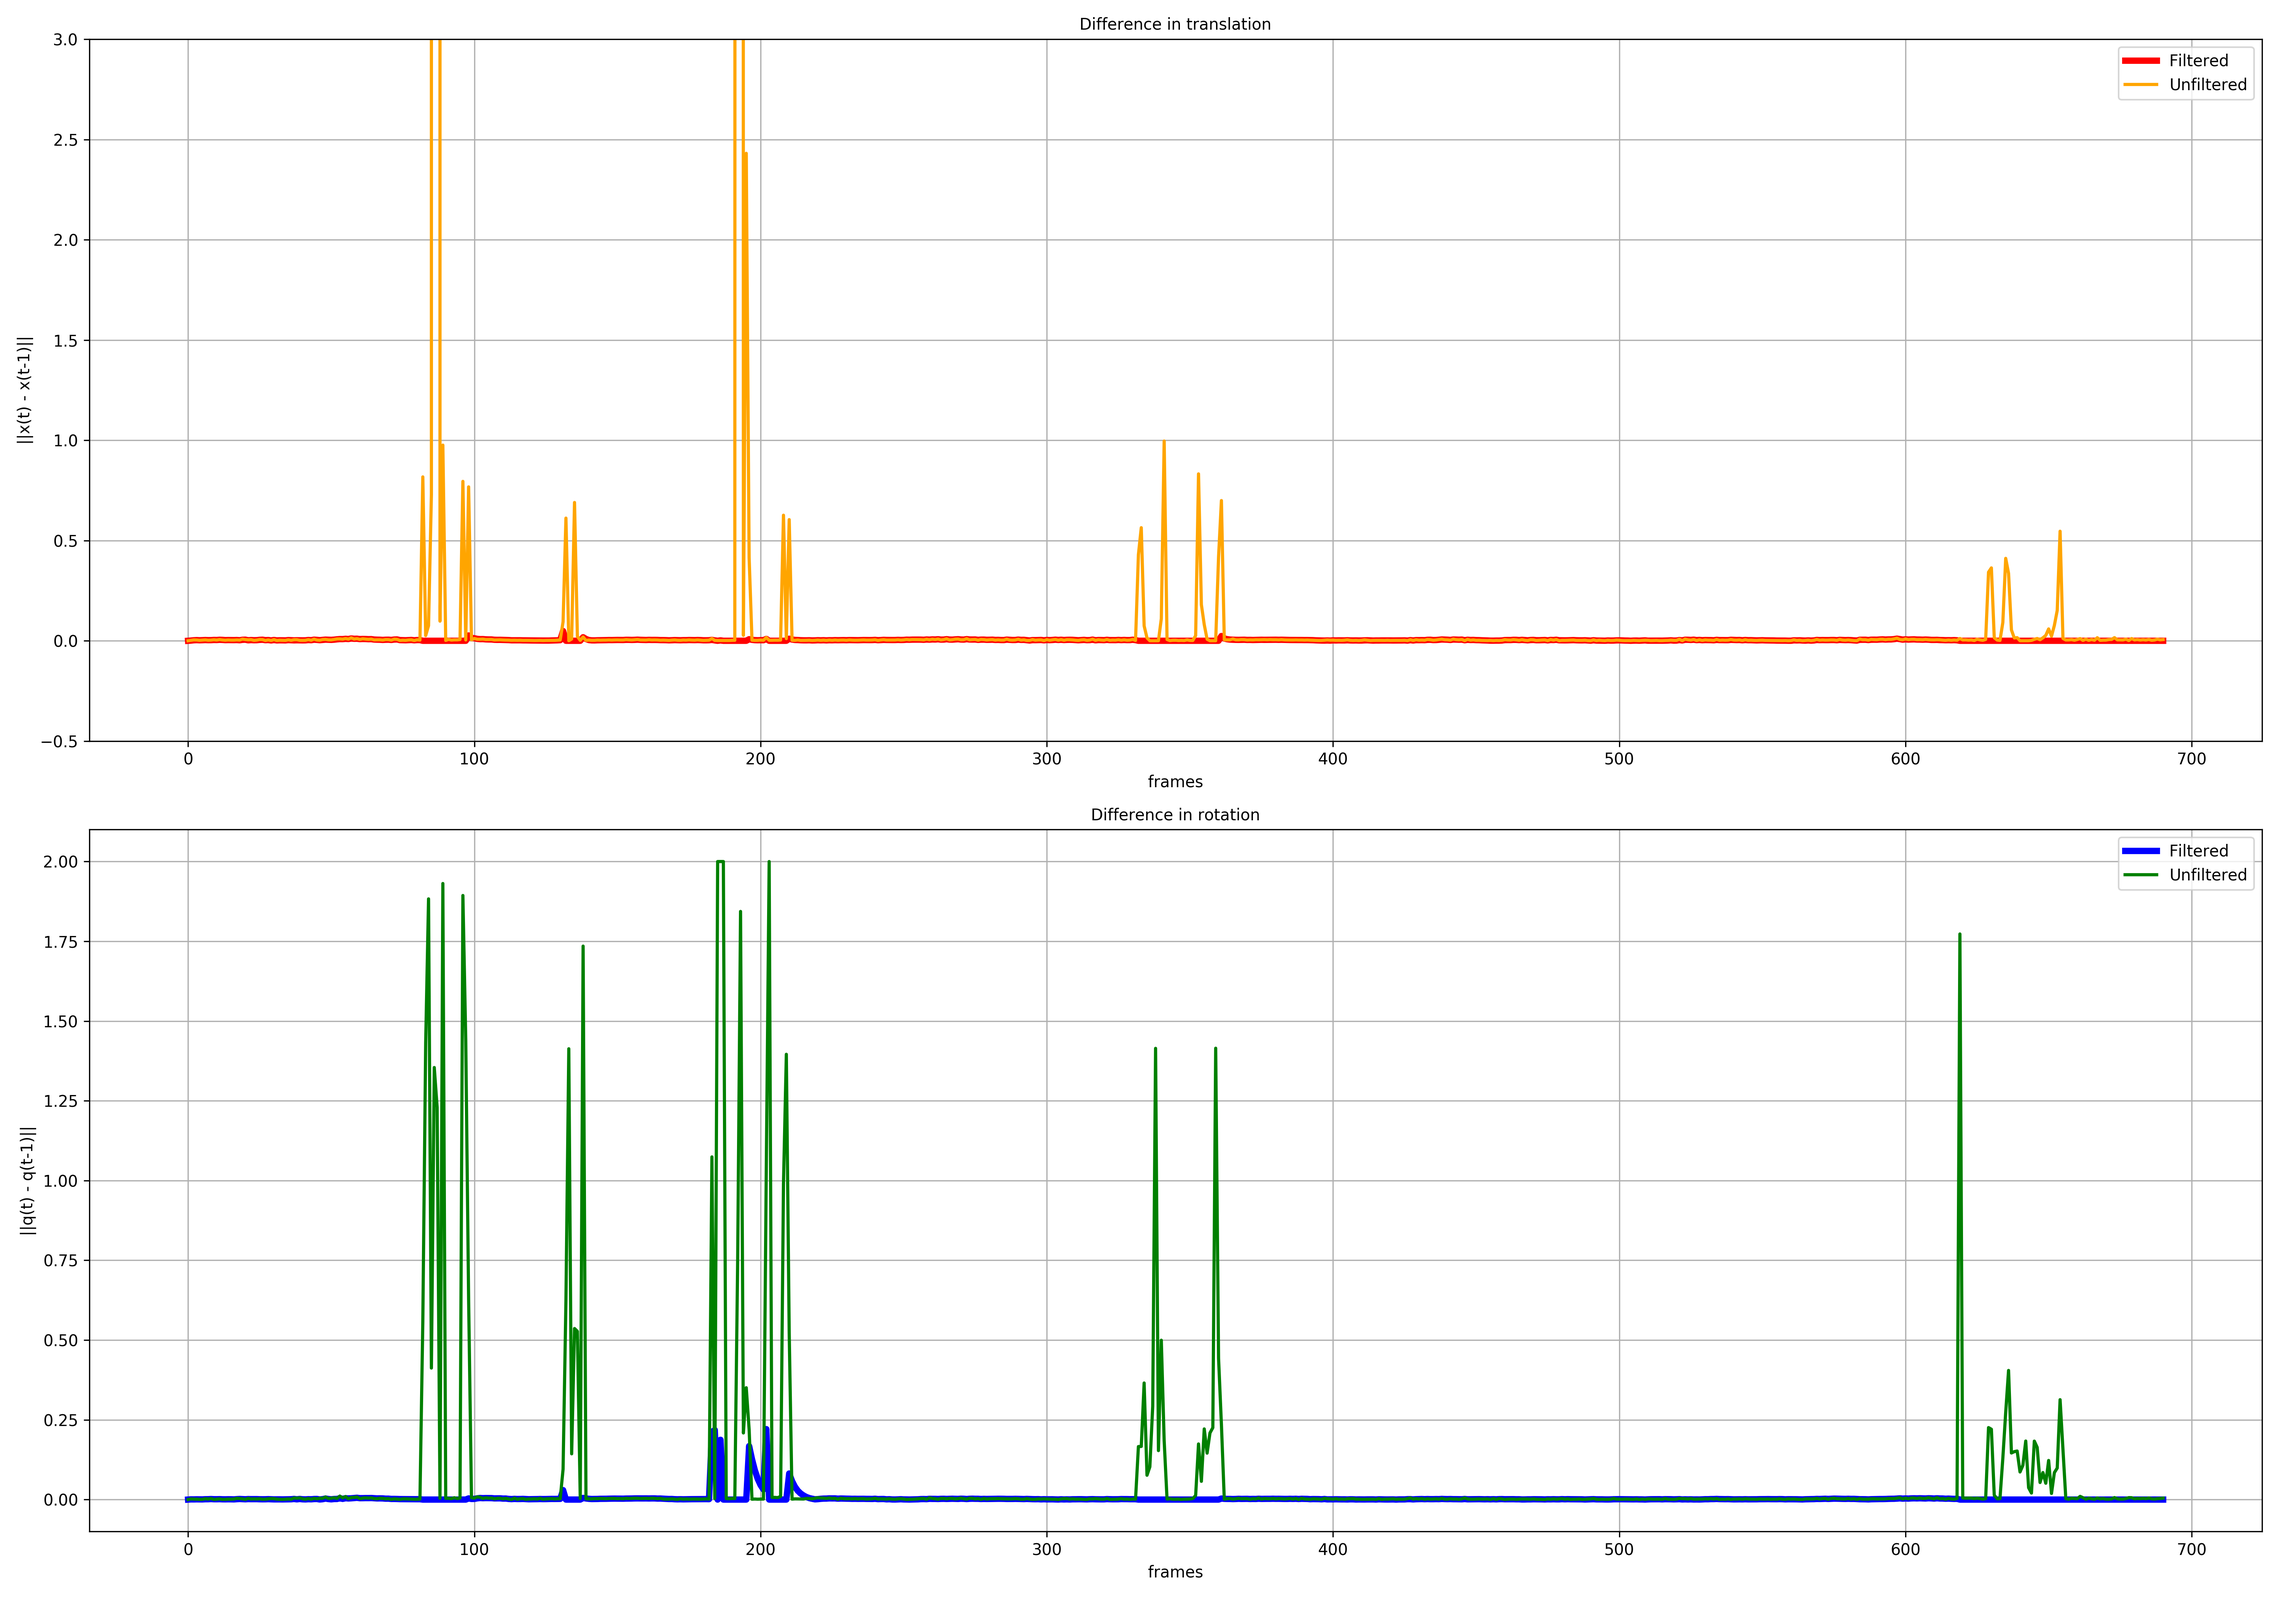
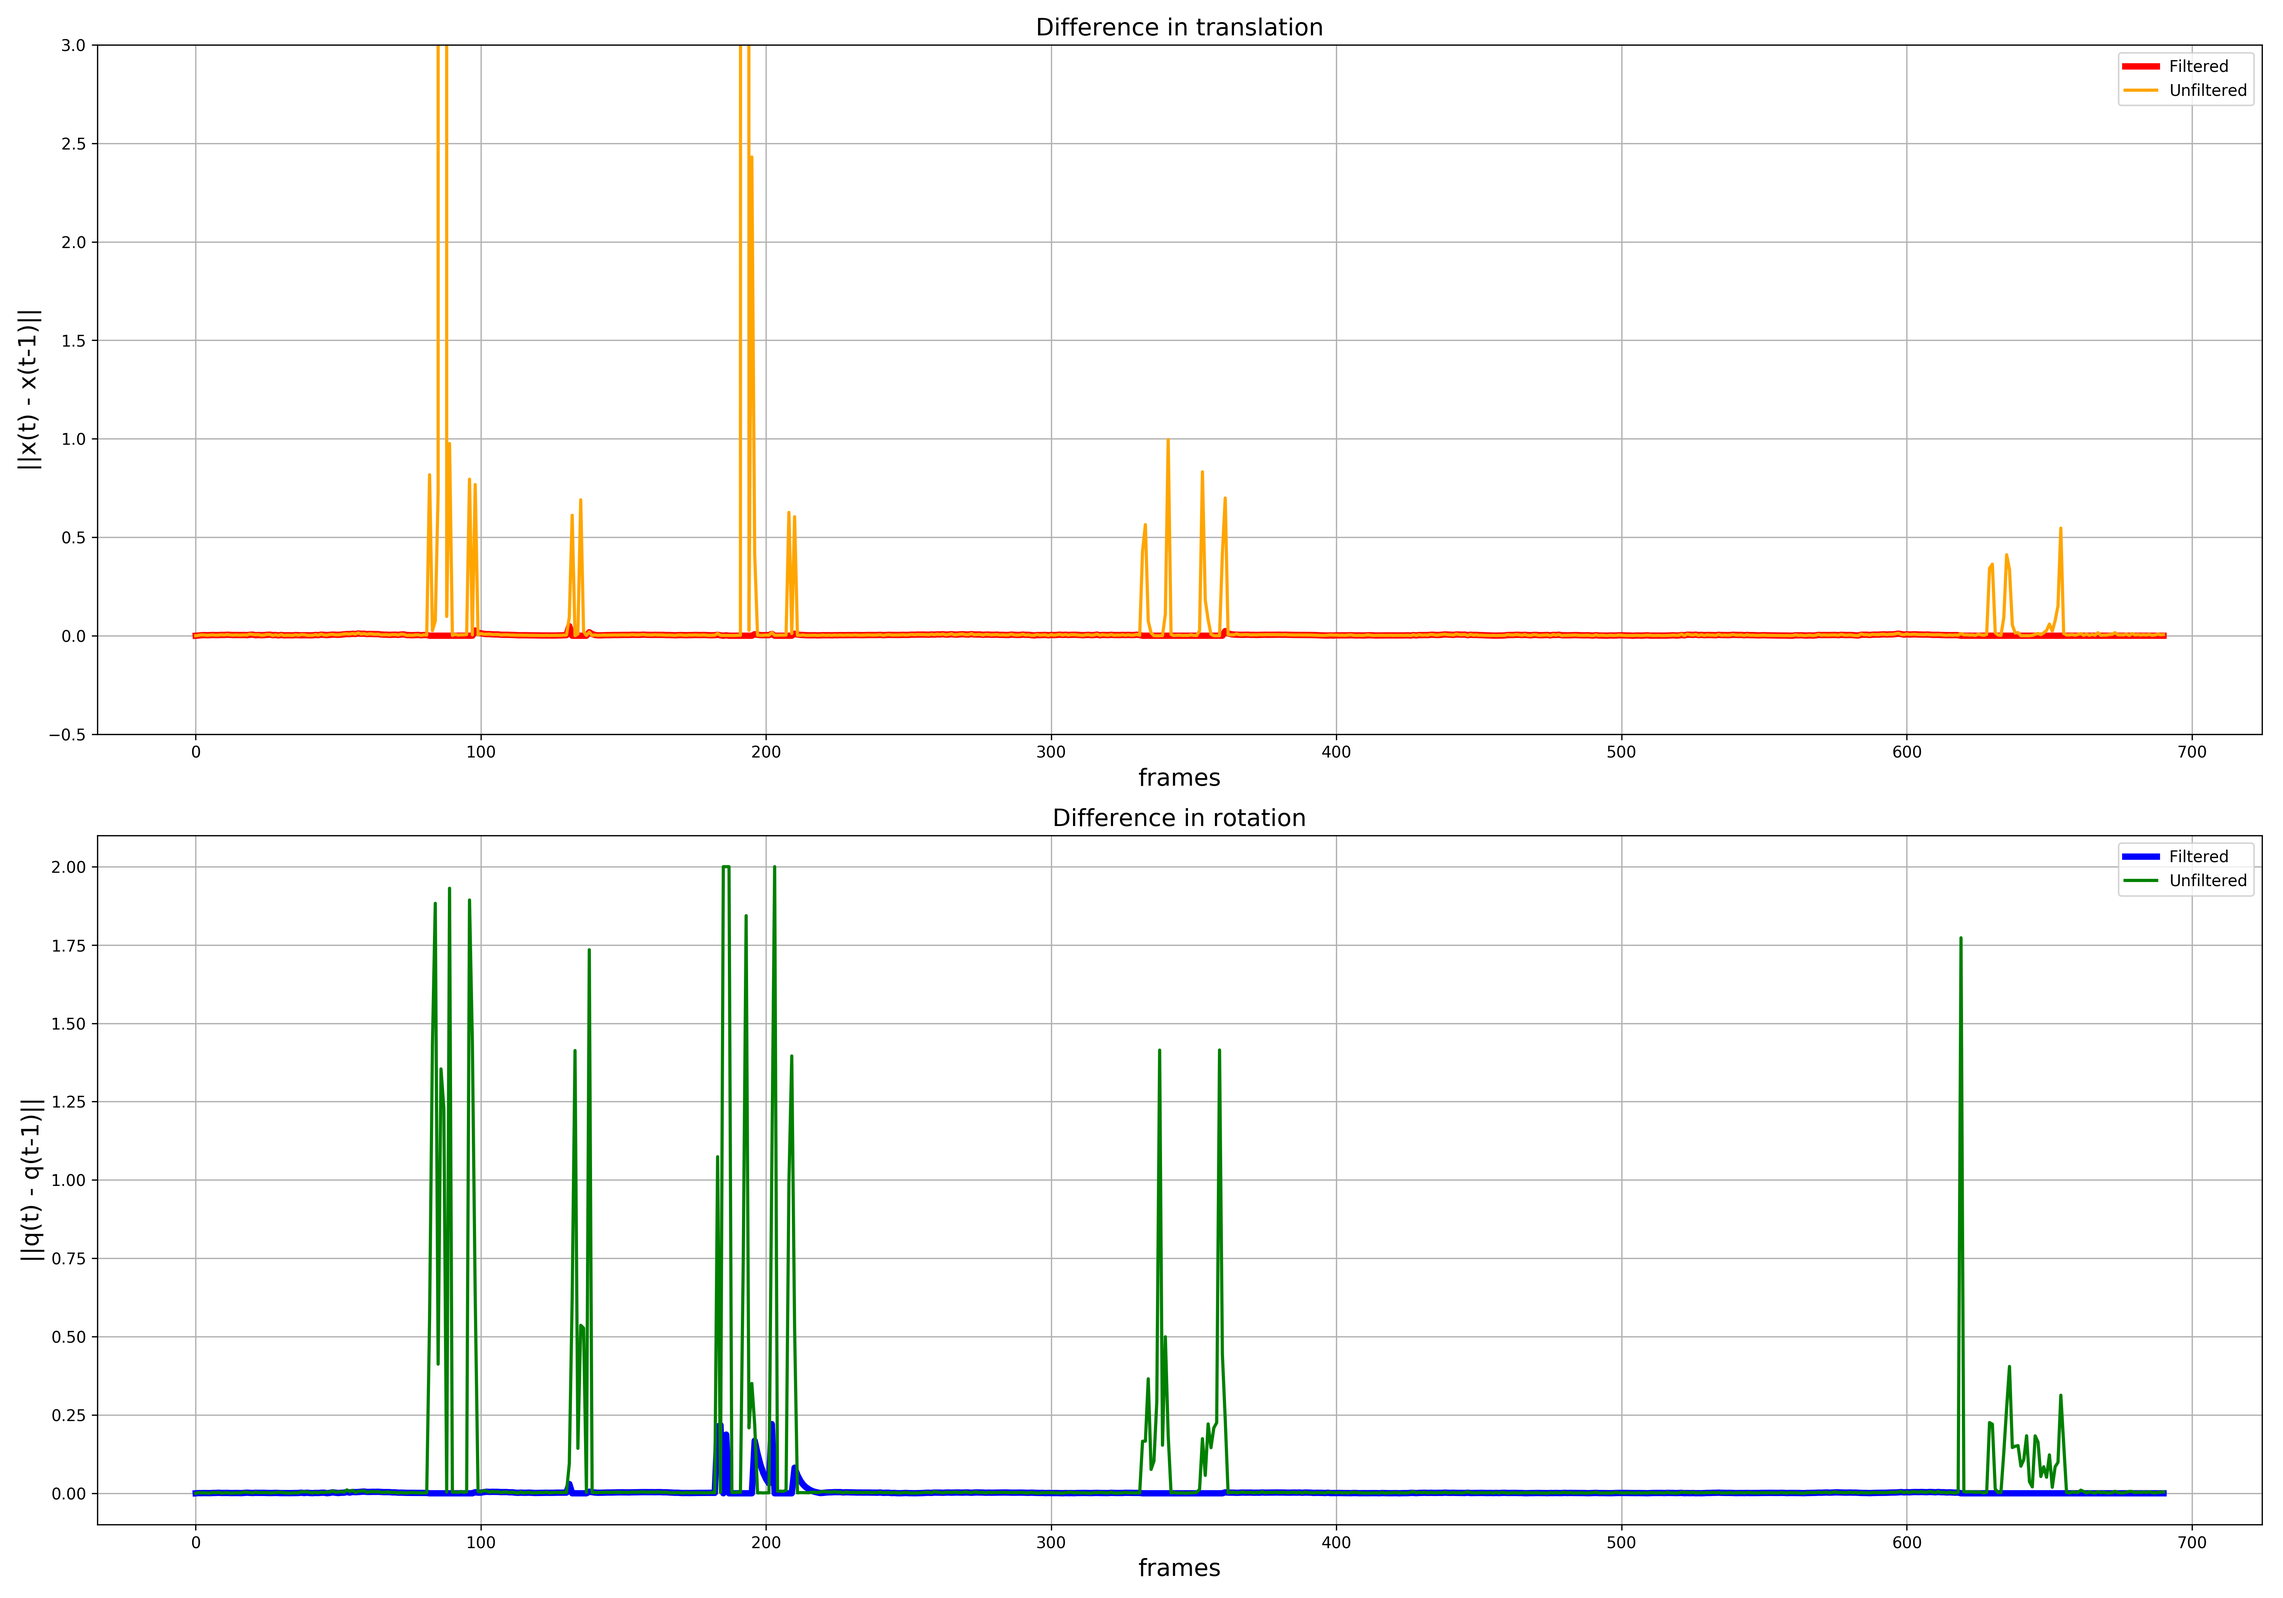
update

diff --git a/plotgraph.py b/plotgraph.py
@@ -71,14 +71,14 @@ for filename in os.listdir(build_dir):
 
 #plt.style.use('dark_background')
 
-fig = plt.figure('Results for {}'.format(filename), figsize=(20, 14))
+fig = plt.figure('Results', figsize=(20, 14))
 
 plt.subplot(2, 1, 1)
 plt.plot(DIFF_FILT, color='red', linewidth=4, label='Filtered')
 plt.plot(DIFF_UNFILT, color='orange', linewidth=2, label='Unfiltered')
-plt.title('Difference in translation', fontsize=10)
-plt.xlabel('frames', fontsize=10)
-plt.ylabel('||x(t) - x(t-1)||', fontsize=10)
+plt.title('Difference in translation', fontsize=15)
+plt.xlabel('frames', fontsize=15)
+plt.ylabel('||x(t) - x(t-1)||', fontsize=15)
 plt.ylim(-0.5, 3)
 plt.grid(True)
 plt.legend()
@@ -86,9 +86,9 @@ plt.legend()
 plt.subplot(2, 1, 2)
 plt.plot(ROT_FILT, color='blue', linewidth=4, label='Filtered')
 plt.plot(ROT_UNFILT, color='green', linewidth=2, label='Unfiltered')
-plt.title('Difference in rotation', fontsize=10)
-plt.xlabel('frames', fontsize=10)
-plt.ylabel('||q(t) - q(t-1)||', fontsize=10)
+plt.title('Difference in rotation', fontsize=15)
+plt.xlabel('frames', fontsize=15)
+plt.ylabel('||q(t) - q(t-1)||', fontsize=15)
 plt.grid(True)
 plt.legend()
 
